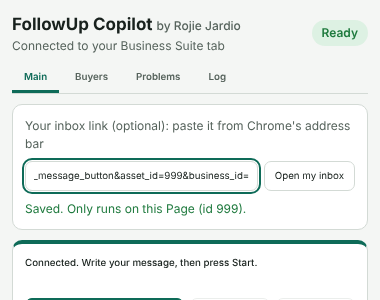
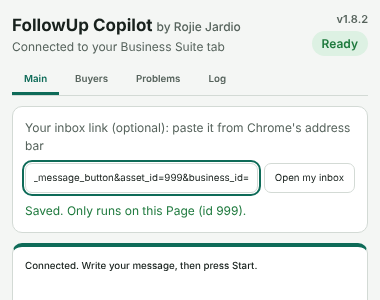
1.8.2: show the version number above the status in the side panel
Claude-Session: https://claude.ai/code/session_01AbmNfk2RbeYzTEgTF7NAcj

diff --git a/extension/sidepanel.css b/extension/sidepanel.css
@@ -27,6 +27,8 @@ button.danger { color: var(--bad); }
 button.small { padding: 4px 8px; font-size: 12px; }
 .top { display: flex; justify-content: space-between; align-items: center; gap: 8px; }
 .sub, .hint { color: var(--muted); font-size: 12px; }
+.topright { display: flex; flex-direction: column; align-items: flex-end; gap: 3px; }
+.ver { font-size: 11px; font-weight: 600; color: var(--muted); white-space: nowrap; }
 .pill { font-size: 12px; font-weight: 600; padding: 4px 10px; border-radius: 99px; background: var(--sunk); white-space: nowrap; }
 .pill.running { background: var(--good-soft); color: var(--good); }
 .pill.paused { background: var(--warn-soft); color: var(--warn); }

diff --git a/extension/sidepanel.html b/extension/sidepanel.html
@@ -12,7 +12,10 @@
     <h1>FollowUp Copilot <span class="by">by Rojie Jardio</span></h1>
     <div id="where" class="sub">Looking for your Business Suite tab…</div>
   </div>
-  <span id="pill" class="pill idle">Ready</span>
+  <div class="topright">
+    <span id="ver" class="ver" title="Version of FollowUp Copilot installed"></span>
+    <span id="pill" class="pill idle">Ready</span>
+  </div>
 </header>
 
 <nav class="tabs" role="tablist">

diff --git a/extension/sidepanel.js b/extension/sidepanel.js
@@ -1,5 +1,6 @@
 // Side panel: edits the message and settings, and drives the engine in the Business Suite tab.
 const $ = (id) => document.getElementById(id);
+try { $("ver").textContent = "v" + chrome.runtime.getManifest().version; } catch (e) {}
 const DEF = {
   template: "Hi {first_name}! Just following up po 😊",
   fallbackName: "there",

diff --git a/tests/test_extension.py b/tests/test_extension.py
@@ -635,3 +635,12 @@ def test_log_tab_last_runs_keep_awake_and_which_endings_shut_down(ext):
     panel.click("#dCopy")
     panel.wait_for_selector("#dStatus:has-text('Copied')")
     assert "Ended: Daily limit of 3 reached" in panel.evaluate("navigator.clipboard.readText()")
+
+
+def test_version_shows_above_the_status(ext):
+    _, panel, _ = ext
+    import json, pathlib
+    want = json.loads((pathlib.Path(__file__).parent.parent / "extension" / "manifest.json").read_text())["version"]
+    assert panel.text_content("#ver") == "v" + want
+    ver, pill = panel.locator("#ver").bounding_box(), panel.locator("#pill").bounding_box()
+    assert ver["y"] + ver["height"] <= pill["y"] + 1

diff --git a/README.md b/README.md
@@ -63,6 +63,13 @@ Safety rules built into both versions:
    **Open my inbox** takes you straight there, and the app refuses to run on a different Facebook Page
    by mistake. The badge at the top says **Ready** when it's connected.
 
+## New in 1.8.2
+
+* The version number now shows at the top right of the side panel, just above **Ready**, so you can see at a
+  glance if you have the latest version.
+
+![Version above Ready](docs/screenshots/option-a-version.png)
+
 ## New in 1.8.1
 
 * **New "Start from" choice (Settings → 1): "Bottom: scroll down until nothing more loads, then send going up".**
